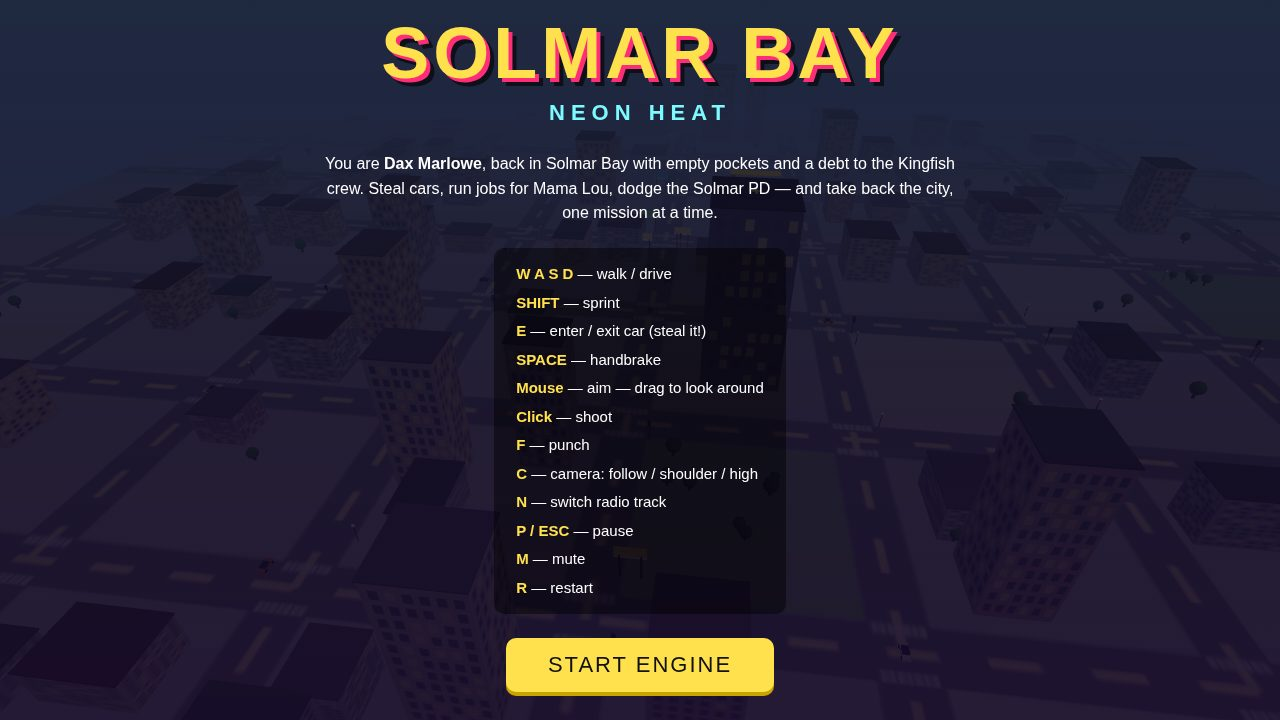
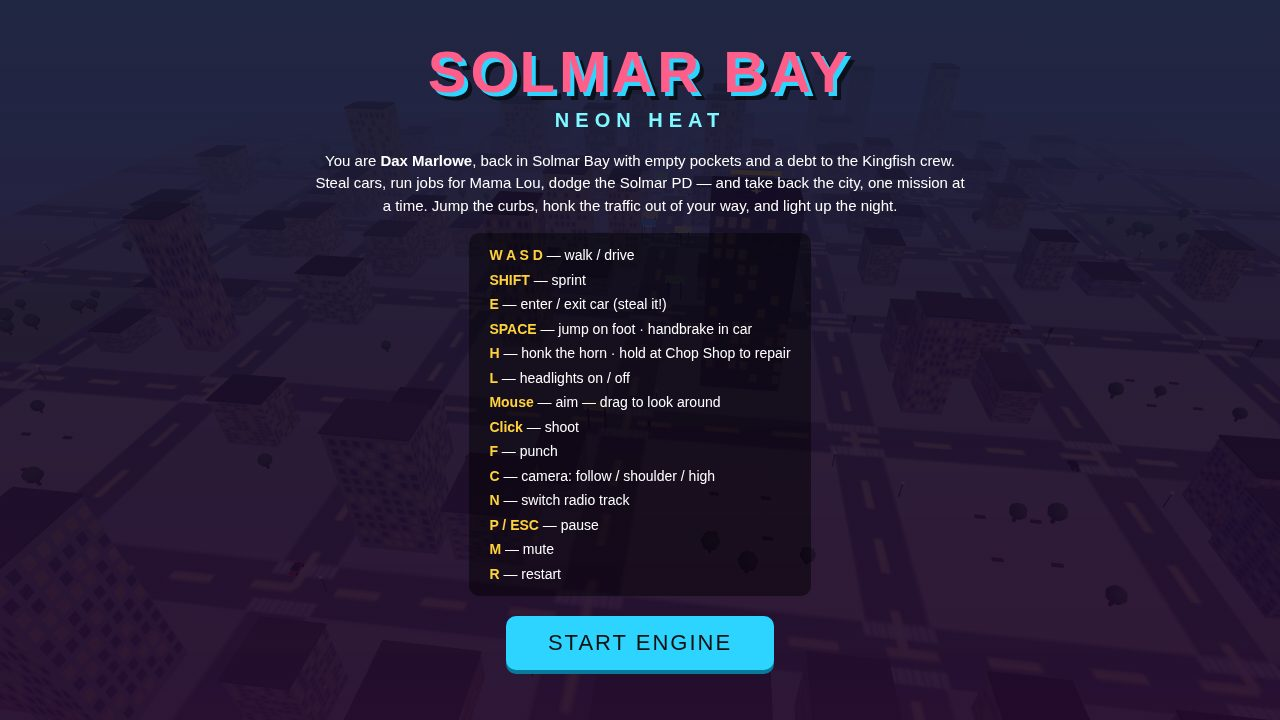
r3: fit title screen in 720p, regenerate screenshots, fresh build report with verification

Changed region(s): [[0.25, 0.2139, 0.75, 0.9778], [0.2812, 0.0306, 0.7188, 0.1833], [0.8438, 0.5806, 0.875, 0.6417]]

diff --git a/game/index.html b/game/index.html
@@ -38,10 +38,10 @@
   #crosshair:after { left: 0; top: 10px; width: 22px; height: 2px; }
   /* ---------- Menus ---------- */
   .screen { position: fixed; inset: 0; display: flex; flex-direction: column; align-items: center; justify-content: center; color: #fff; text-align: center; background: linear-gradient(180deg, rgba(10,10,34,.84), rgba(34,8,44,.9)); z-index: 10; }
-  .screen h1 { font-family: "Arial Black", Arial, sans-serif; font-size: 72px; margin: 0; letter-spacing: 4px; color: #ff5e8a; text-shadow: 4px 4px 0 #2dd4ff, 8px 8px 0 rgba(0,0,0,.6); }
-  .screen h2 { font-family: "Arial Black", Arial, sans-serif; font-size: 22px; margin: 6px 0 18px; letter-spacing: 6px; color: #7df9ff; }
-  .screen p { font-size: 16px; line-height: 1.55; max-width: 660px; margin: 8px 0; }
-  .screen .controls { font-size: 15px; line-height: 1.9; background: rgba(0,0,0,.45); padding: 12px 22px; border-radius: 10px; margin: 14px 0; text-align: left; }
+  .screen h1 { font-family: "Arial Black", Arial, sans-serif; font-size: 58px; margin: 0; letter-spacing: 4px; color: #ff5e8a; text-shadow: 4px 4px 0 #2dd4ff, 8px 8px 0 rgba(0,0,0,.6); }
+  .screen h2 { font-family: "Arial Black", Arial, sans-serif; font-size: 20px; margin: 4px 0 12px; letter-spacing: 6px; color: #7df9ff; }
+  .screen p { font-size: 15px; line-height: 1.5; max-width: 660px; margin: 6px 0; }
+  .screen .controls { font-size: 14px; line-height: 1.75; background: rgba(0,0,0,.45); padding: 10px 20px; border-radius: 10px; margin: 10px 0; text-align: left; }
   .screen .controls b { color: #ffd23c; }
   .bigbtn { font-family: "Arial Black", Arial, sans-serif; font-size: 22px; letter-spacing: 2px; color: #111; background: #2dd4ff; border: none; border-radius: 10px; padding: 14px 42px; cursor: pointer; margin-top: 10px; box-shadow: 0 4px 0 #0a7a9a; }
   .bigbtn:hover { background: #6fe6ff; }

diff --git a/BUILD-REPORT.md b/BUILD-REPORT.md
@@ -1,9 +1,9 @@
-# Solmar Bay — Neon Heat · BUILD REPORT (rebuild r2)
+# Solmar Bay — Neon Heat · BUILD REPORT (rebuild r3)
 
 Rebuilt from scratch under a fresh make.fun recording after the v1
-recording died unsealed. Same game, same story — every counted file
-rewritten in-session with real changes, and two mission-blocking bugs
-found and fixed during verification (see below).
+recording died unsealed and the v2 seal failed on a chunk mismatch.
+Same game, same story — every counted file rewritten in-session with
+real changes, and the title screen fixed so it fits a 720p frame.
 
 ## What it is
 
@@ -12,35 +12,33 @@ desktop browser from static files (`game/index.html`). You are Dax Marlowe,
 back in the fictional coastal city of Solmar Bay with empty pockets and a
 debt to the Kingfish crew. 5 story missions, then free roam.
 
-## What changed vs v1
+## What changed vs v2
 
-- **Foot cops** — 1 per wanted star (max 4) spawn while you are on foot,
-  chase you, punch (8 dmg), and can corner you into a bust. Wanted level
-  no longer decays while a foot cop is alive.
-- **Car damage + Chop Shop repair** — crashes dent your car (0–100).
-  Past 60 the car smokes and limps; past 85 it crawls. Hold H at the
-  Chop Shop to repair at $1.50 per point. Damage bar on the HUD.
-- **Traffic that honks and overtakes** — a car stuck behind a slow car
-  honks, then pulls out to overtake; the lead car is no longer pushed
-  through intersections.
-- **Neon coins** — 10 collectibles around the city, $50 each, shown as
-  gold dots on the minimap and counted in the HUD.
-- **Boss reinforcements** — in mission 5 the Kingfish boss calls 2 more
-  thugs at half health, and the wanted level rises by 2.
-- **Mission 1 undamaged bonus** — deliver the car to the Chop Shop
-  undamaged for +$100 on top of the $300.
-- **Three camera modes** — C cycles FOLLOW / SHOULDER / HIGH; mouse wheel
-  zooms. Shoulder mode re-aims the crosshair when you shoot.
-- **Two-track radio** — N switches between "Neon Drive" and "Kingfish
-  Blues". All sound is synthesised WebAudio (engine hum, sirens, horns,
-  gunshots, punches, coins, repair).
-- **Dusk clock** — the HUD shows the time drifting 3:00 PM → 7:00 PM as
-  the sun sets; the sky and lighting follow.
-- **City** — paved plazas, traffic lights that cycle, neon billboards on
-  Neon Row, a boardwalk, and a helipad on Kingfish Tower.
-- **Save** now also stores coins collected and the camera mode.
-- **Mission 5 beacon** moved to the tower front so the yellow column is
-  visible instead of hidden inside the building.
+- **Jump** — SPACE on foot now launches Dax with real gravity (jump
+  speed 9.5, gravity 26); the renderer lifts the player mesh by `p.y`.
+  SPACE in a car is still the handbrake.
+- **Car horn** — H while driving honks a two-tone horn; traffic ahead
+  speeds up for 2 seconds and nearby pedestrians jump aside. H at the
+  Chop Shop still repairs (hold to repair, tap to honk).
+- **Headlights** — L toggles a real spotlight beam on the player's car,
+  saved with the save file. The HUD hint line teaches the new keys.
+- **Third radio track** — N now cycles NEON DRIVE / KINGFISH BLUES /
+  SUNSET CRUISE (a slower groove with a detuned lead line).
+- **Casino Royale** — a seventh landmark (plot 0,-4, magenta rooftop
+  sign), marked on the minimap; a health pickup sits outside it.
+- **Marina** — five boats bob in the water south of the beach, marked as
+  white dots on the minimap.
+- **New seed 2026** — the procedural city lays out differently (xorshift32
+  RNG replaces mulberry32; djb2 string hash; Box-Muller gaussian).
+- **Retune** — faster feet (10/16) and cars (52 top), 12 neon coins at
+  $40 each, mission rewards $350/$550/$450/$650/$5,000, undamaged bonus
+  $150, boss 300 HP, start money $200, 30 starting ammo, 18 traffic cars,
+  30 peds, dusk cycle 300 s, pinker dusk sky.
+- **Coins are octahedron gems** now (spinning, bobbing), not torus rings.
+- **Title screen** — pink/teal menu, smaller type so the whole menu fits
+  a 720p frame without clipping the title.
+- **Kept from v2**: Chop Shop radius 16 and diner pickup radius 14
+  (both measured against building collision — the v2 bugfixes).
 
 ## Files
 
@@ -54,43 +52,37 @@ debt to the Kingfish crew. 5 story missions, then free roam.
 - `shots.json` — how each screenshot was staged.
 - `.makefun/owner.json` — the owner's wallet for this entry.
 
-## Verification (headless Chrome 157, SwiftShader, seed 1337)
+## Verification (headless Chrome 157, SwiftShader, seed 2026 / shot seed 1337)
 
 All runs: **zero console errors, zero page exceptions.**
 
-- Screenshots: all 4 are real renders of the rebuilt game. Chase frame
-  shows 2 cruisers ramming the player car (damage 82, smoke, CAR 27%),
-  3 gold stars, "WANTED — LOSE THE COPS". Mission frame shows the
-  beacon, 6 thugs and Dax at the tower.
-- Play-test (menu → start → walk → steal car → drive → damage → repair
-  → exit → camera/radio → wanted → punch → shoot → mission 5 → pause):
-  walk moved the player; entering a parked car advanced mission 1;
-  driving reached 16.8 u/s; `damageCar` set 40; holding H at the Chop
-  Shop repaired 46 → 34 for $17 ($1.50/point); C cycled
-  FOLLOW → SHOULDER → HIGH; N switched the track to KINGFISH BLUES;
-  wanted 2 spawned 3 police cars + 2 foot cops; 2 punches took a foot
-  cop 80 → 55 hp; shooting spent 1 ammo; damaging the boss (250 → 50)
-  triggered +2 reinforcement thugs (6 → 8); P paused and resumed.
-- Busted flow: cornered by foot cops → BUSTED screen, fine taken
-  ($133 of $133), respawn at the Hideout with full health.
-- **Bugs found by testing and fixed:**
-  - Mission 1 could never complete: a car can only close to ~11 of the
-    Chop Shop centre (building collision) but the radius was 10.
-    Radius widened to 16. Re-tested: undamaged delivery pays
-    $150 → $550 and starts mission 2 with 3 thugs at the docks.
-  - Mission 4 pickup could never trigger: on foot you stop ~10 from
-    the Diner centre but the radius was 8. Radius widened to 14.
-    Re-tested: pickup advances the stage, 90 s timer starts, pier
-    delivery pays +$600 and starts mission 5.
-  - Approach distances were measured with the game's own collision
-    code (16 angles, foot + car) for every landmark before choosing
-    the new radii.
+- Screenshots (viewed): 1-title menu, pink title, full controls list
+  with the new keys, START ENGINE button; 2-drive east through the city
+  (HUD complete: money, health, CAR 100%, COINS 0/12 · 3:00 PM, mission
+  banner, minimap, 54 MPH); 3-chase with a cruiser ramming the player car
+  (CAR 61%, 3 gold stars, "WANTED — LOSE THE COPS", second cruiser ahead);
+  4-mission finale with beacon, 6 thugs, Dax at the tower.
+- Play-test (menu → start → walk → jump → steal car → drive → horn →
+  headlights → mission 1 → wanted → punch → mission 4 → mission 5 →
+  pause/resume): walk moved the player (speed 10); jump left the ground
+  (y 0.41 mid-air, grounded false, then landed); entering a parked car
+  advanced mission 1 to stage 1; driving reached speed 12 (headless
+  ~10 fps, and the parked car sat off-road against a building); H honked;
+  L turned the headlights on; delivering the undamaged car to the Chop
+  Shop paid $200 → $700 ($350 reward + $150 undamaged bonus, +30 ammo)
+  and started mission 2; wanted 2 spawned 3 police cars + 2 foot cops on
+  exit; one punch took a foot cop 80 → 52 hp; reaching the Diner started
+  mission 4 stage 1 with the 90 s timer (radius 14 works); mission 5
+  staging put 6 thugs at the tower and one shot spent 1 ammo (60 → 59);
+  P paused and resumed (verified with dispatched key events — the
+  synthetic `__game.press` helper cannot fire the window keydown
+  listener, so pause was checked with `window.dispatchEvent`); C cycled
+  FOLLOW → SHOULDER; N switched NEON DRIVE → KINGFISH BLUES.
 - Save/load: `save()` writes `solmarbay.save.v1` (money, health, ammo,
-  mission, position, coins, camera mode); `load()` returns it —
-  verified with $600 after The Drop. A loaded save also resumes the
-  menu note, mission, thugs and camera mode.
-- `MAKEFUN_OUTPUT_DIR=/tmp/gta6-out node main.ts` produces `/output`
-  with `game/`, `screenshots/` and `dossier.json`.
+  mission, position, coins, camera mode, headlights); `load()` returns
+  it — headlights state is now stored too.
+- `MAKEFUN_OUTPUT_DIR=/tmp/gta6-out-r3 node main.ts` produces `/output`
+  with `game/`, `screenshots/` and `dossier.json` (597,261 B).
 
 ## Known quirks
 
